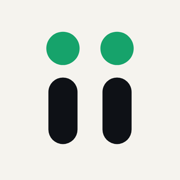
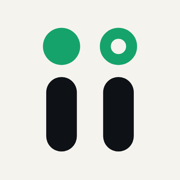
Senior UI review fixes, Credail Inc. operator line, return points section, say U's

diff --git a/index.html b/index.html
@@ -7,7 +7,7 @@
 <meta name="referrer" content="strict-origin-when-cross-origin">
 <meta name="robots" content="noindex,nofollow">
 <title>ii — a rules-based token planned for Credail members</title>
-<meta name="description" content="ii (say “use”) is a rules-based token in development for members of Credail. Mint within your allowance; returns are voluntary; every record is public. Not available yet.">
+<meta name="description" content="ii (say “U’s”) is a rules-based token in development for members of Credail. Mint within your allowance; returns are voluntary; every record is public. Not available yet.">
 <link rel="canonical" href="https://ii.money/">
 <meta property="og:type" content="website">
 <meta property="og:url" content="https://abdulqadir0731.github.io/ii-website/"><!-- GO-LIVE: https://ii.money/ -->
@@ -30,12 +30,13 @@
 <header class="top">
   <div class="wrap top-in">
     <a class="brand" href="#top" aria-label="ii home">
-      <svg class="brand-mark" viewBox="0 0 120 120" aria-hidden="true"><rect x="26" y="50" width="22" height="58" rx="11" class="ink"/><rect x="72" y="50" width="22" height="58" rx="11" class="ink"/><circle cx="37" cy="24" r="14" class="coin"/><circle cx="83" cy="24" r="11" class="ring"/></svg>
-      <span class="brand-say">say “use”</span>
+      <svg class="brand-mark" viewBox="21 8 79 102" aria-hidden="true"><rect x="26" y="50" width="22" height="58" rx="11" class="ink"/><rect x="72" y="50" width="22" height="58" rx="11" class="ink"/><circle cx="37" cy="24" r="14" class="coin"/><circle cx="83" cy="24" r="11" class="ring"/></svg>
+      <span class="brand-say">say “U’s”</span>
     </a>
     <nav aria-label="Sections">
       <a href="#how">How it works</a>
       <a href="#score">ii Score</a>
+      <a href="#points">Return points</a>
       <a href="#faq">Questions</a>
     </nav>
   </div>
@@ -47,9 +48,9 @@
     <div class="hero-copy">
       <p class="eyebrow"><span class="dot" aria-hidden="true"></span>In development · Not yet available</p>
       <h1 class="hero-title"><span class="sr">ii</span>
-        <svg class="hero-mark" viewBox="0 0 120 120" aria-hidden="true"><rect x="26" y="50" width="22" height="58" rx="11" class="ink"/><rect x="72" y="50" width="22" height="58" rx="11" class="ink"/><circle cx="37" cy="24" r="14" class="coin"/><circle cx="83" cy="24" r="11" class="ring"/></svg>
+        <svg class="hero-mark" viewBox="21 8 79 102" aria-hidden="true"><rect x="26" y="50" width="22" height="58" rx="11" class="ink"/><rect x="72" y="50" width="22" height="58" rx="11" class="ink"/><circle cx="37" cy="24" r="14" class="coin"/><circle cx="83" cy="24" r="11" class="ring"/></svg>
       </h1>
-      <p class="say">say “use”</p>
+      <p class="say">say “U’s”</p>
       <p class="lead">Mint ii within your allowance. Returns are voluntary, and your public record shows every one.</p>
       <p class="sublead">A rules-based token planned for members of Credail. The rules are fixed and every record is public.</p>
       <div class="ctas">
@@ -75,7 +76,7 @@
           <rect x="157" y="168" width="14" height="44" rx="7" class="core-ink"/>
           <rect x="189" y="168" width="14" height="44" rx="7" class="core-ink"/>
           <circle cx="164" cy="150" r="9" class="core-ink"/>
-          <circle cx="196" cy="150" r="9" class="core-ink"/>
+          <circle cx="196" cy="150" r="7.5" class="core-ring"/>
         </g>
       </svg>
       <figcaption>
@@ -86,7 +87,7 @@
   </div>
 </section>
 
-<section class="band" id="how" aria-labelledby="how-h">
+<section class="band alt" id="how" aria-labelledby="how-h">
   <div class="wrap">
     <p class="kicker">How it works</p>
     <h2 id="how-h">Four steps, one public record</h2>
@@ -97,14 +98,14 @@
         <p>Eligible Credail members unlock a first allowance of 25,000 ii, set by a starting ii Score of 25.</p>
       </li>
       <li>
-        <svg viewBox="0 0 48 48" aria-hidden="true"><circle cx="24" cy="24" r="15" class="i-fill"/><path d="M24 17v14M17 24h14" class="i-paper"/></svg>
+        <svg viewBox="0 0 48 48" aria-hidden="true"><circle cx="24" cy="24" r="15" class="i-line"/><path d="M24 17v14M17 24h14" class="i-acc"/></svg>
         <h3>Mint</h3>
         <p>Mint any amount within your allowance, whenever you choose. Nothing is minted automatically.</p>
       </li>
       <li>
-        <svg viewBox="0 0 48 48" aria-hidden="true"><path d="M8 34h32" class="i-line"/><circle cx="12" cy="24" r="4" class="i-fill"/><circle cx="20" cy="24" r="4" class="i-fill"/><circle cx="28" cy="24" r="4" class="i-fill"/><circle cx="36" cy="24" r="4" class="i-ring"/></svg>
+        <svg viewBox="0 0 48 48" aria-hidden="true"><path d="M6 36h36" class="i-line"/><circle cx="12" cy="24" r="5" class="i-fill"/><circle cx="24" cy="24" r="5" class="i-fill"/><circle cx="36" cy="24" r="5" class="i-ring"/></svg>
         <h3>Return</h3>
-        <p>Each mint comes with a short series of voluntary returns. The exact schedule will be published before launch.</p>
+        <p>Each mint is split into four equal, voluntary returns, due 8, 16, 24 and 32 days after you mint.</p>
       </li>
       <li>
         <svg viewBox="0 0 48 48" aria-hidden="true"><rect x="11" y="7" width="26" height="34" rx="4" class="i-line"/><path d="M17 17h14M17 24h14M17 31h8" class="i-line"/></svg>
@@ -115,7 +116,7 @@
   </div>
 </section>
 
-<section class="band alt" id="score" aria-labelledby="score-h">
+<section class="band" id="score" aria-labelledby="score-h">
   <div class="wrap two">
     <div>
       <p class="kicker">The ii Score</p>
@@ -133,7 +134,8 @@
         <title id="chart-t">ii Score over ten years with every return made on schedule: 25 at the start, 50 after year one, then rising evenly to 100 after year ten.</title>
         <g class="grid"><path d="M50 30H400M50 130H400M50 180H400M50 230H400"/></g>
         <g class="axis-l"><text x="40" y="34">100</text><text x="40" y="134">50</text><text x="40" y="184">25</text><text x="40" y="234">0</text></g>
-        <g class="axis-b"><text x="50" y="252">0</text><text x="85" y="252">1</text><text x="225" y="252">5</text><text x="400" y="252">10 yrs</text></g>
+        <g class="axis-b"><text x="85" y="252">1</text><text x="225" y="252">5</text><text x="400" y="252" class="end">10 yrs</text></g>
+        <text x="50" y="16" class="ytitle">ii Score</text>
         <path class="line" d="M50 180L85 130L120 118.89L155 107.78L190 96.67L225 85.56L260 74.44L295 63.33L330 52.22L365 41.11L400 30.0"/>
         <g class="pts"><circle cx="50" cy="180" r="4"/><circle cx="85" cy="130" r="4"/><circle cx="400" cy="30" r="5"/></g>
       </svg>
@@ -158,6 +160,54 @@
   </div>
 </section>
 
+<section class="band alt" id="points" aria-labelledby="pts-h">
+  <div class="wrap">
+    <p class="kicker">Return points</p>
+    <h2 id="pts-h">How each return moves your ii Score</h2>
+    <p class="muted intro">Your ii Score starts at 25. Each mint is split into four returns, due 8, 16, 24 and 32 days after you mint. These are the planned rules and may change before launch.</p>
+    <ol class="stages">
+      <li>
+        <span class="stage-n mono">Stage 1</span>
+        <h3>First 12 returns</h3>
+        <p class="pts"><span class="up mono">+2.08</span> for each return made on time</p>
+        <p>Make all 12 and your score reaches 50. Miss up to 4 and you keep the points you earned. Miss 5 or more, and the score instead drops by 2.08 for each missed return.</p>
+      </li>
+      <li>
+        <span class="stage-n mono">Stage 2</span>
+        <h3>Next 48 returns</h3>
+        <p class="pts"><span class="down mono">−0.52</span> for each missed return</p>
+        <p>Returns made on time keep your score where it is. Missed returns lower it.</p>
+      </li>
+      <li>
+        <span class="stage-n mono">Stage 3</span>
+        <h3>Every year after</h3>
+        <p class="pts"><span class="up mono">up to +5.56</span> each year</p>
+        <p>Your score rises each year in proportion to the returns you made on time that year, until it reaches 100.</p>
+      </li>
+      <li>
+        <span class="stage-n mono">Stage 4</span>
+        <h3>At 100</h3>
+        <p class="pts"><span class="up mono">up to 10</span> per year, last 10 years</p>
+        <p>Your score becomes a rolling ten-year record. Each year counts for up to 10 points by its share of on-time returns, and each new year replaces the oldest.</p>
+      </li>
+    </ol>
+    <div class="ex">
+      <table>
+        <caption>Example: score after the first 12 returns</caption>
+        <thead><tr><th scope="col">Returns missed</th><th scope="col" class="n">ii Score</th><th scope="col" class="n">Allowance</th></tr></thead>
+        <tbody>
+          <tr><td>0</td><td class="n mono">50.00</td><td class="n mono">50,000 ii</td></tr>
+          <tr><td>1</td><td class="n mono">47.92</td><td class="n mono">47,916 ii</td></tr>
+          <tr><td>4</td><td class="n mono">41.67</td><td class="n mono">41,666 ii</td></tr>
+          <tr><td>5</td><td class="n mono">14.58</td><td class="n mono">14,583 ii</td></tr>
+          <tr><td>12</td><td class="n mono">0.00</td><td class="n mono">0 ii</td></tr>
+        </tbody>
+      </table>
+      <p class="fine">Exact values are kept to eight decimal places (for example, 2.08333333 = 25 ÷ 12) and shown rounded here. Allowances are rounded down. A missed return lowers your score; it never takes away ii you already hold.</p>
+    </div>
+  </div>
+</section>
+
 <section class="band" id="principles" aria-labelledby="pr-h">
   <div class="wrap">
     <p class="kicker">Planned principles</p>
@@ -170,27 +220,24 @@
       <article><h3>Your keys</h3><p>The plan is for you to hold your own keys, with an encrypted backup in your own Google Drive or iCloud.</p></article>
       <article><h3>Marketplace</h3><p>A marketplace where members set their own prices is planned. It is subject to legal and regulatory review and is not available.</p></article>
     </div>
-  </div>
-</section>
-
-<section class="band alt" id="records" aria-labelledby="rec-h">
-  <div class="wrap">
-    <div class="records">
+    <div class="records" id="records" aria-labelledby="rec-h">
       <svg viewBox="0 0 48 48" aria-hidden="true"><rect x="7" y="9" width="34" height="30" rx="5" class="i-line"/><path d="M14 19h20M14 26h20M14 33h12" class="i-line"/></svg>
-      <div>
-        <h2 id="rec-h">Public records</h2>
-        <p>Exchange, mint and return records and a link to the public explorer will appear here when the network is live.</p>
-      </div>
+      <span class="pill">Not live yet</span>
+      <h3 id="rec-h">Public records</h3>
+      <p>Exchange, mint and return records and a link to the public explorer will appear here when the network is live.</p>
     </div>
   </div>
 </section>
 
-<section class="band" id="faq" aria-labelledby="faq-h">
-  <div class="wrap narrow">
+<section class="band alt" id="faq" aria-labelledby="faq-h">
+  <div class="wrap faq">
+    <div class="faq-head">
     <p class="kicker">Questions</p>
     <h2 id="faq-h">The rules, plainly</h2>
     <p class="muted">These describe the planned rules, which may change before launch.</p>
-    <details><summary>What is ii?</summary><p>ii (say “use”) is a rules-based token in development for members of Credail. Members will be able to mint ii within an allowance set by their ii Score, make voluntary returns, and build a public record.</p></details>
+    </div>
+    <div class="faq-list">
+    <details><summary>What is ii?</summary><p>ii (say “U’s”) is a rules-based token in development for members of Credail. Members will be able to mint ii within an allowance set by their ii Score, make voluntary returns, and build a public record.</p></details>
     <details><summary>Is ii a loan?</summary><p>No. Minting ii creates no debt and no obligation to repay, and there is no interest. Returns are voluntary; they affect your ii Score and your future allowance.</p></details>
     <details><summary>Does ii have a dollar value?</summary><p>ii has no guaranteed dollar value. No one promises to redeem ii, buy it, or exchange it for money, and there may be no buyer at any price.</p></details>
     <details><summary>Who will be able to mint?</summary><p>Eligible Credail members who pass the planned checks, including a verified phone number and device checks.</p></details>
@@ -198,18 +245,23 @@
     <details><summary>Why is the score so precise?</summary><p>Scores are designed to be calculated exactly and kept to eight decimal places, so anyone can check every result once the rules are public. They are shown rounded.</p></details>
     <details><summary>Is there a sale, presale or airdrop?</summary><p>No. There is no ii sale, presale or airdrop, and we will never ask for your keys or recovery phrase.</p></details>
     <details><summary>When will ii launch?</summary><p>There is no launch date yet. This page will be updated.</p></details>
+    </div>
   </div>
 </section>
 </main>
 
 <footer class="foot">
   <div class="wrap">
-    <p class="disclaimer">ii is in development and is not available. Nothing on this site is an offer to sell, or a solicitation of an offer to buy, ii or any other asset. ii is not a loan, credit, deposit or investment product, and it is not backed by Credail or anyone else. ii has no guaranteed dollar value. No one promises to redeem ii, buy it, or exchange it for money, and there may be no buyer at any price. Minting ii creates no debt and no interest, and returns are voluntary. Features, figures and schedules described here are planned, may change, and may not launch in every country or at all. There is no ii sale, presale or airdrop, and we will never ask for your keys or recovery phrase.</p>
+    <div class="foot-brand">
+      <svg class="brand-mark" viewBox="21 8 79 102" aria-hidden="true"><rect x="26" y="50" width="22" height="58" rx="11" class="ink"/><rect x="72" y="50" width="22" height="58" rx="11" class="ink"/><circle cx="37" cy="24" r="14" class="coin"/><circle cx="83" cy="24" r="11" class="ring"/></svg>
+      <span>ii is a project of Credail Inc.</span>
+    </div>
+    <p class="disclaimer">ii is in development and is not available. Nothing on this site is an offer to sell, or a solicitation of an offer to buy, ii or any other asset. ii is not a loan, credit, deposit or investment product, and it is not backed by Credail Inc. or anyone else. ii has no guaranteed dollar value. No one promises to redeem ii, buy it, or exchange it for money, and there may be no buyer at any price. Minting ii creates no debt and no interest, and returns are voluntary. Features, figures and schedules described here are planned, may change, and may not launch in every country or at all. There is no ii sale, presale or airdrop, and we will never ask for your keys or recovery phrase.</p>
     <div class="foot-grid">
       <p>ii is planned to work inside Credail. ii features are not in the Credail app today. Credail is available on the <a href="https://apps.apple.com/us/app/credail/id6777994889" rel="noopener noreferrer">App Store</a> and <a href="https://play.google.com/store/apps/details?id=com.credail.app" rel="noopener noreferrer">Google Play</a>.</p>
-      <p>Operator details will be published before launch.<br>No cookies, no analytics. Our host (GitHub) logs IP addresses; see <a href="https://docs.github.com/site-policy/privacy-policies/github-general-privacy-statement" rel="noopener noreferrer">GitHub's privacy statement</a>.</p>
+      <p>Contact us through <a href="https://credail.com" rel="noopener noreferrer">credail.com</a>.<br>No cookies, no analytics. Our host (GitHub) logs IP addresses; see <a href="https://docs.github.com/site-policy/privacy-policies/github-general-privacy-statement" rel="noopener noreferrer">GitHub's privacy statement</a>.</p>
     </div>
-    <p class="meta">Last updated: October 2026 · Fonts: IBM Plex (SIL Open Font License)</p>
+    <p class="meta">© 2026 Credail Inc. · Last updated: October 2026 · Fonts: IBM Plex (SIL Open Font License)</p>
   </div>
 </footer>
 </body>

diff --git a/assets/css/site.css b/assets/css/site.css
@@ -171,3 +171,118 @@ details p { color: var(--muted); padding-bottom: 12px; }
 .foot-grid { display: grid; gap: 16px; }
 @media (min-width: 820px) { .foot-grid { grid-template-columns: 1fr 1fr; } }
 .meta { margin-top: 20px; font-size: 13px; }
+
+/* ── UI review (Oct 6, 2026) ─────────────────────────────────────────────── */
+/* 1 rhythm + alternating bands */
+.hero { padding: 48px 0 64px; }
+@media (min-width: 900px) { .hero { padding: 72px 0 80px; } }
+.band { padding: 80px 0; }
+@media (max-width: 719px) { .band { padding: 56px 0; } }
+.band + .band:not(.alt), .hero + .band:not(.alt) { border-top: 1px solid var(--line); }
+/* 2 focus keeps pill shape; calmer hovers */
+a:focus-visible, button:focus-visible, summary:focus-visible, input:focus-visible { border-radius: 0; }
+a:not(.btn):focus-visible, summary:focus-visible { border-radius: 6px; }
+.btn, .pause { transition: background-color .15s, color .15s, border-color .15s; }
+.btn:hover { background: color-mix(in srgb, var(--ink) 8%, transparent); transform: none; }
+.btn.primary:hover { background: color-mix(in srgb, var(--ink) 86%, var(--green)); }
+@media (prefers-reduced-motion: reduce) { .btn, .pause { transition: none; } }
+/* 3 wordmark flush left */
+.hero-mark { width: clamp(76px, 10vw, 104px); margin-left: 0; }
+.say { margin: 14px 0 28px; }
+.brand-mark { width: 26px; height: 34px; }
+/* 4 logo ring inside the big coin */
+.core-ring { fill: none; stroke: var(--bg); stroke-width: 4; }
+/* 5 lighter ring, smaller on mobile, centred caption */
+.track, .progress { stroke-width: 7; }
+.hero-art { width: min(100%, 300px); }
+@media (min-width: 900px) { .hero-art { width: min(100%, 420px); } }
+.hero-art figcaption { justify-content: center; text-align: center; }
+.pause { min-height: 44px; }
+/* 6 chart */
+.chart .end { text-anchor: end; }
+.chart .ytitle { text-anchor: start; font-weight: 500; fill: var(--text); }
+.chart .grid path { stroke-dasharray: 2 4; }
+.chart { padding: 20px 20px 16px; }
+/* 7 sliders: styled track with fill (--p set by site.js) */
+input[type=range] { -webkit-appearance: none; appearance: none; background: transparent; height: 44px; cursor: pointer; --p: 25%; }
+input[type=range]::-webkit-slider-runnable-track { height: 6px; border-radius: 3px; background: linear-gradient(to right, var(--green) var(--p), var(--line) var(--p)); }
+input[type=range]::-moz-range-track { height: 6px; border-radius: 3px; background: var(--line); }
+input[type=range]::-moz-range-progress { height: 6px; border-radius: 3px; background: var(--green); }
+input[type=range]::-webkit-slider-thumb { -webkit-appearance: none; width: 22px; height: 22px; margin-top: -8px; border-radius: 50%; background: var(--surface); border: 3px solid var(--green); box-shadow: 0 1px 3px rgba(0,0,0,.2); }
+input[type=range]::-moz-range-thumb { width: 16px; height: 16px; border-radius: 50%; background: var(--surface); border: 3px solid var(--green); }
+input[type=range]:focus-visible { outline-offset: 0; }
+/* 8 result tiles: "Available to mint" is the answer */
+.calc { padding: 28px; }
+.calc-grid { gap: 4px 40px; }
+.calc label { align-items: baseline; }
+.calc-res > div { padding: 16px 18px; border-radius: 12px; }
+.calc-res > div:last-child { background: color-mix(in srgb, var(--green) 10%, var(--surface)); box-shadow: inset 0 0 0 1px color-mix(in srgb, var(--green) 30%, transparent); }
+.calc-res > div:last-child .big { color: var(--green-text); }
+.big { display: block; margin-top: 4px; font-size: clamp(24px, 3vw, 30px); letter-spacing: -0.01em; }
+/* 9 public records as a quiet empty state */
+.records { margin-top: 16px; flex-direction: column; align-items: center; text-align: center; gap: 10px; padding: 36px 24px; background: transparent; border: 1.5px dashed var(--line); }
+.records svg { width: 36px; height: 36px; opacity: .7; }
+.records h3 { font-size: 19px; }
+.records p { max-width: 52ch; }
+.pill { font: 500 12px/1 "Plex Mono", monospace; color: var(--amber-text); background: color-mix(in srgb, var(--amber) 16%, transparent); padding: 6px 10px; border-radius: 999px; }
+/* 10 FAQ on the page's left edge */
+.faq { display: grid; gap: 8px 64px; }
+@media (min-width: 900px) { .faq { grid-template-columns: 4fr 7fr; } .faq-head { position: sticky; top: 88px; align-self: start; } }
+summary { padding: 18px 40px 18px 0; transition: color .15s; }
+summary:hover { color: var(--green-text); }
+summary::after { top: 50%; transform: translateY(-50%); right: 4px; font-size: 22px; }
+.faq-list details:first-child { border-top: 1px solid var(--line); }
+details p { max-width: 62ch; padding-bottom: 8px; }
+/* 11 one icon language: ink outline + one green accent */
+.i-acc { fill: none; stroke: var(--green); stroke-width: 2.5; stroke-linecap: round; }
+.steps svg { width: 40px; height: 40px; margin-bottom: 18px; }
+.steps li { padding: 24px; }
+.steps li::before { top: 24px; right: 24px; }
+/* 12 dark mode: visible bands, lifted cards, green primary */
+@media (prefers-color-scheme: dark) {
+  :root { --band: #141920; --surface: #1A1F27; --line: #2C333D; }
+  .eyebrow, .pill { background: color-mix(in srgb, var(--amber) 14%, transparent); }
+  .btn.primary { background: var(--green); color: #0E1116; border-color: var(--green); }
+  .btn.primary:hover { background: color-mix(in srgb, var(--green) 88%, #ffffff); }
+}
+/* 13 footer: brand row, readable disclaimer, clean accent */
+.foot-brand { display: flex; align-items: center; gap: 10px; margin-bottom: 24px; color: var(--text); font-weight: 500; }
+.foot-brand .brand-mark { width: 19px; height: 24px; }
+.disclaimer { max-width: 78ch; border-left-width: 1px; box-shadow: inset 4px 0 0 var(--amber); padding: 20px 22px 20px 26px; font-size: 14px; line-height: 1.6; }
+.foot-grid p { max-width: 60ch; }
+.meta { border-top: 1px solid var(--line); padding-top: 16px; margin-top: 28px; }
+/* 15 header + rhythm (kickers stay sentence case so "ii" never becomes "II") */
+.top-in { height: 64px; }
+nav { gap: 4px; }
+nav a { padding: 12px; border-radius: 8px; min-height: 44px; display: inline-flex; align-items: center; }
+nav a:hover { background: color-mix(in srgb, var(--ink) 6%, transparent); color: var(--ink); }
+.brand-say { font: 400 13px/1 "Plex Mono", monospace; }
+h2 { letter-spacing: -0.02em; margin-bottom: 32px; }
+.lead { max-width: 26ch; letter-spacing: -0.01em; }
+.cards article, .steps li { transition: border-color .15s; }
+.cards article:hover, .steps li:hover { border-color: color-mix(in srgb, var(--green) 40%, var(--line)); }
+#how, #score, #principles, #faq { scroll-margin-top: 72px; }
+.facts li { align-items: start; }
+
+/* Return points (Oct 6, 2026) */
+#points { scroll-margin-top: 72px; }
+.intro { max-width: 68ch; margin: -12px 0 32px; }
+.stages { list-style: none; padding: 0; margin: 0; display: grid; gap: 16px; grid-template-columns: 1fr; }
+@media (min-width: 720px) { .stages { grid-template-columns: 1fr 1fr; } }
+@media (min-width: 1040px) { .stages { grid-template-columns: repeat(4, 1fr); } }
+.stages li { background: var(--surface); border: 1px solid var(--line); border-radius: 14px; padding: 24px; }
+.stage-n { font-size: 12px; color: var(--muted); }
+.stages h3 { margin: 8px 0 12px; }
+.pts { margin: 0 0 12px; font-weight: 500; color: var(--text); }
+.pts span { display: inline-block; font-size: 20px; margin-right: 6px; }
+.up { color: var(--green-text); }
+.down { color: var(--red-text); }
+.stages p:last-child { margin: 0; color: var(--muted); }
+.ex { margin-top: 24px; background: var(--surface); border: 1px solid var(--line); border-radius: 14px; padding: 24px; }
+.ex table { width: 100%; max-width: 560px; border-collapse: collapse; }
+.ex caption { text-align: left; font-weight: 600; margin-bottom: 12px; color: var(--text); }
+.ex th, .ex td { padding: 10px 8px; border-bottom: 1px solid var(--line); text-align: left; }
+.ex th { font-weight: 500; color: var(--muted); font-size: 14px; }
+.ex .n { text-align: right; }
+.ex .fine { margin-top: 16px; max-width: 72ch; }
+@media (max-width: 560px) { nav a[href="#points"] { display: none; } }

diff --git a/assets/js/site.js b/assets/js/site.js
@@ -22,6 +22,8 @@
       rAvail.textContent = fmt.format(avail) + " ii";
       out.setAttribute("aria-valuetext", fmt.format(u) + " ii");
       score.setAttribute("aria-valuetext", s.toFixed(2));
+      score.style.setProperty("--p", s + "%");
+      out.style.setProperty("--p", (u / 1000) + "%");
     };
     score.addEventListener("input", update);
     out.addEventListener("input", update);
